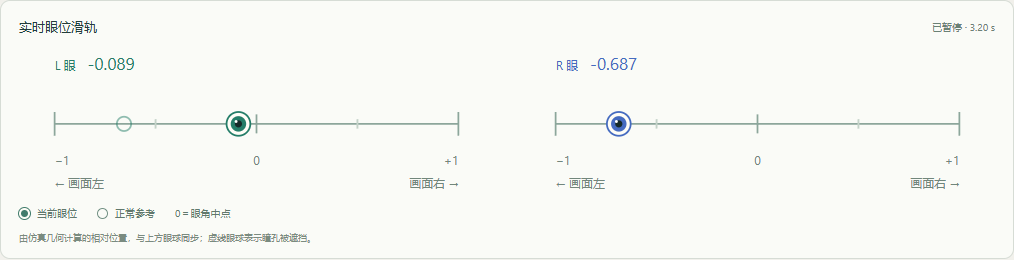
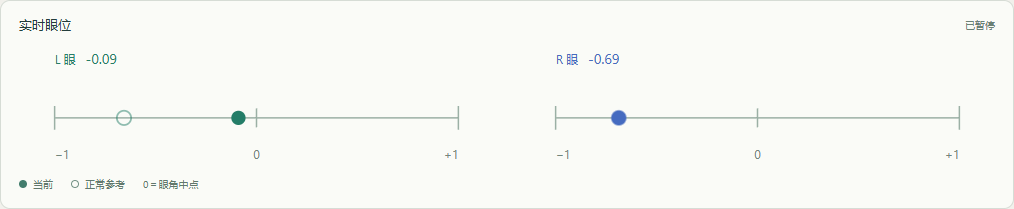
Simplify eye-position rails to plain dots

diff --git a/oculid.css b/oculid.css
@@ -7,8 +7,6 @@
 .sr-only{position:absolute;width:1px;height:1px;padding:0;margin:-1px;overflow:hidden;clip:rect(0,0,0,0);white-space:nowrap;border:0}.patient-active{font-size:12px;color:#285c4b;background:#e5ede4;border-radius:6px;padding:10px 11px;line-height:1.6}.patient-fields{display:grid;grid-template-columns:minmax(0,1.6fr) minmax(0,1fr);gap:9px}.patient-fields>div{min-width:0}.controls .patient-fields label{margin-top:5px}.patient-fields select{font-size:12px;padding:10px 6px}.patient-row{display:flex;gap:7px}.patient-row input{min-width:0;flex:1;width:80px}.patient-row button{white-space:nowrap;flex:none;font-size:12px;padding:9px}.controls input[type=text],.controls input[type=number]{border:1px solid var(--line);border-radius:6px;padding:10px;font-size:12px;max-width:100%;background:#fafbf7;color:#233d3b}.controls input[type=file]{max-width:100%;font-size:11px}.patient-nav{display:flex;gap:5px;margin-top:8px}.patient-nav button{flex:1;padding:8px 4px;font-size:11px}#patientSeed{width:100%}#patientFiles>button{margin-top:12px;width:100%}.error{color:#a04437!important}.trajectory-card{margin-top:22px;padding:17px 18px 13px;border:1px solid var(--line);border-radius:10px;background:#fafbf7}.trace-heading{display:flex;justify-content:space-between;align-items:center;gap:12px}.trace-heading h2{font-size:13px;font-weight:500;margin:0}.trace-heading>div{display:flex;gap:8px;align-items:center}.trace-heading select{width:auto;max-width:230px;font-size:11px;padding:7px}.trace-heading button{font-size:11px;padding:7px 10px}#motionTrace{width:100%;height:230px;display:block;margin-top:10px}.trace-legend{display:flex;flex-wrap:wrap;gap:7px 15px;font-size:10px;color:#6b8075}.trace-left{color:#247d68}.trace-right{color:#456bc0}.trace-legend output{margin-left:auto;font-variant-numeric:tabular-nums}.trajectory-card .hint{font-size:9px;line-height:1.7}
 @media(max-width:760px){.trajectory-card{padding:14px 10px}.trace-heading{align-items:flex-start;flex-direction:column;gap:10px}.trace-heading>div{width:100%}.trace-heading select{flex:1;max-width:none;min-width:0}.trace-heading button{white-space:nowrap}#motionTrace{height:230px}.trace-legend{gap:6px 9px;font-size:9px}.controls .patient-fields select{font-size:12px;padding:10px 6px}}
 
-/* Instantaneous eye positions: fixed horizontal rails, no temporal history. */
-.eye-position-card{margin-top:22px;padding:17px 18px 13px;border:1px solid var(--line);border-radius:10px;background:#fafbf7}.rail-heading{display:flex;align-items:center;justify-content:space-between;gap:10px}.rail-heading h2{font-size:13px;font-weight:500;margin:0}.rail-heading>span{font-size:10px;color:#6b8075;font-variant-numeric:tabular-nums}.eye-rails{display:grid;grid-template-columns:1fr 1fr;gap:26px;margin-top:17px}.eye-rail{min-width:0;--eye-color:#247d68}.eye-rail-1{--eye-color:#456bc0}.rail-eye-heading{display:flex;align-items:baseline;gap:12px;padding:0 7.5%;font-size:12px;color:var(--eye-color)}.rail-eye-heading output{font-size:17px;font-variant-numeric:tabular-nums}.rail-visibility{color:#8a654b;font-size:10px;margin-left:auto}.eye-rail svg{display:block;width:100%;height:auto;overflow:visible}.rail-axis,.rail-minor{fill:none;stroke:#8ca69b;stroke-width:1.5}.rail-minor{stroke:#c5d3c9}.rail-reference{fill:none;stroke:var(--eye-color);stroke-width:1.5;opacity:.5}.rail-eye-white{fill:#fffef7;stroke:var(--eye-color);stroke-width:1.5}.rail-iris{fill:var(--eye-color)}.rail-pupil{fill:#162a28}.rail-glint{fill:white}.rail-marker.is-occluded{opacity:.55}.rail-marker.is-occluded .rail-eye-white{stroke-dasharray:3 2;fill:#edf1e8}.rail-marker.is-occluded .rail-iris,.rail-marker.is-occluded .rail-pupil,.rail-marker.is-occluded .rail-glint{opacity:.45}.eye-rail text{fill:#71867b;font:10px "Segoe UI","Microsoft YaHei",sans-serif}.rail-key{display:flex;flex-wrap:wrap;gap:10px 20px;font-size:10px;color:#61786c;margin:12px 0 0}.rail-key>span{display:inline-flex;align-items:center;gap:7px}.rail-key i{display:inline-block;width:11px;height:11px;border-radius:50%}.rail-key-eye{background:#427c6c;border:2px solid #fcfcf6;outline:1px solid #427c6c}.rail-key-reference{border:1.5px solid #749286}.eye-position-card .hint{font-size:9px;line-height:1.7}
-@media(max-width:760px){.eye-position-card{padding:14px 10px}.eye-rails{grid-template-columns:1fr;gap:17px;margin-top:16px}.rail-heading{align-items:flex-start;flex-wrap:wrap}.rail-heading>span{font-size:9px}.rail-key{font-size:9px;gap:8px 13px}.rail-eye-heading output{font-size:16px}}
-
-@media(max-width:760px){.eye-rail text{font-size:14px}}
+/* Instantaneous eye positions: a line and simple position dots. */
+.eye-position-card{margin-top:22px;padding:15px 18px;border:1px solid var(--line);border-radius:10px;background:#fafbf7}.rail-heading{display:flex;align-items:center;justify-content:space-between;gap:10px}.rail-heading h2{font-size:13px;font-weight:500;margin:0}.rail-heading>span{font-size:10px;color:#6b8075}.eye-rails{display:grid;grid-template-columns:1fr 1fr;gap:26px;margin-top:16px}.eye-rail{min-width:0;--eye-color:#247d68}.eye-rail-1{--eye-color:#456bc0}.rail-eye-heading{display:flex;align-items:baseline;gap:10px;padding:0 7.5%;font-size:12px;color:var(--eye-color)}.rail-eye-heading output{font-size:14px;font-variant-numeric:tabular-nums}.rail-visibility{color:#8a654b;font-size:10px;margin-left:auto}.eye-rail svg{display:block;width:100%;height:auto}.rail-axis{fill:none;stroke:#9bb0a5;stroke-width:1.3}.rail-reference{fill:none;stroke:var(--eye-color);stroke-width:1.5;opacity:.5}.rail-dot{fill:var(--eye-color)}.rail-marker.is-occluded .rail-dot{fill:none;stroke:var(--eye-color);stroke-width:1.5;stroke-dasharray:2 2;opacity:.65}.eye-rail text{fill:#71867b;font:10px "Segoe UI","Microsoft YaHei",sans-serif}.rail-key{display:flex;flex-wrap:wrap;gap:10px 18px;font-size:10px;color:#61786c;margin:10px 0 0}.rail-key>span{display:inline-flex;align-items:center;gap:6px}.rail-key i{display:inline-block;width:8px;height:8px;border-radius:50%}.rail-key-dot{background:#427c6c}.rail-key-reference{border:1.5px solid #749286}
+@media(max-width:760px){.eye-position-card{padding:14px 10px}.eye-rails{grid-template-columns:1fr;gap:14px;margin-top:14px}.rail-heading>span{font-size:9px}.rail-key{font-size:9px;gap:8px 13px}.eye-rail text{font-size:14px}}

diff --git a/index.html b/index.html
@@ -1,9 +1,9 @@
 <!doctype html>
-<html lang="zh-CN"><head><meta charset="utf-8"><meta name="viewport" content="width=device-width, initial-scale=1"><title>Oculid Motion Lab · 眼睑与双眼运动</title><meta name="description" content="带眼睑的双眼运动模拟：自然眨眼、注视随动、原模型同步对照与本地食指追踪。"><link rel="icon" href="data:,"><link rel="stylesheet" href="./oculid.css?v=rails5"></head>
+<html lang="zh-CN"><head><meta charset="utf-8"><meta name="viewport" content="width=device-width, initial-scale=1"><title>Oculid Motion Lab · 眼睑与双眼运动</title><meta name="description" content="带眼睑的双眼运动模拟：自然眨眼、注视随动、原模型同步对照与本地食指追踪。"><link rel="icon" href="data:,"><link rel="stylesheet" href="./oculid.css?v=rails-simple1"></head>
 <body>
 <header class="masthead"><a class="brand" href="./"><span class="brand-mark">◉</span><span>OCULID <b>MOTION LAB</b></span></a><nav><a href="./workspace.html">完整工作台 ↗</a><a href="./research.html">设计与依据</a><a href="https://github.com/zhh0907/oculid-motion-lab">GitHub ↗</a></nav></header>
 <main class="layout"><section class="workbench">
-<div class="intro"><div><p class="eyebrow">BINOCULAR MOTION · WITH EYELIDS</p><h1>让注视，有真实的眼睑。</h1><p class="subtitle">沿用原有双眼运动模型，观察眼睑随动、眨眼与遮挡。</p></div><span class="version">RESEARCH / 0.5</span></div>
+<div class="intro"><div><p class="eyebrow">BINOCULAR MOTION · WITH EYELIDS</p><h1>让注视，有真实的眼睑。</h1><p class="subtitle">沿用原有双眼运动模型，观察眼睑随动、眨眼与遮挡。</p></div><span class="version">RESEARCH / 0.5.1</span></div>
 <div class="stage-card"><div class="stage-top"><span><i class="live-dot"></i> <span id="stateLabel">正在加载模型</span> · <span id="activePatientBadge">正常参考</span></span><span id="renderFps">— fps</span></div>
 <div id="eyeFocus" class="eye-stage"><span class="eye-label left-label">L 通道</span><span class="eye-label right-label">R 通道</span><div class="stage-bottom"><span>眼球 + 眼睑</span><span id="lidStatus">自然眨眼 · 注视随动</span></div></div>
 <div class="target-track"><span>目标</span><div><i id="targetDot"></i></div><span id="targetDepth">0.70 m</span></div>
@@ -31,4 +31,4 @@
 </aside></main>
 <footer>OCULID MOTION LAB <span>Built on Binocular Motion Lab · Honghao Zhao</span><a href="./research.html">方法与验证边界 ↗</a></footer>
 <div hidden><input id="cameraDepth" value=".7"><input id="cameraFov" value="60"><input id="camY" value=".30"><input id="cameraSmooth" value="60"></div>
-<script type="module" src="./src/main.mjs?v=rails5"></script></body></html>
+<script type="module" src="./src/main.mjs?v=rails-simple1"></script></body></html>

diff --git a/docs/PATIENTS-AND-TRACES.zh-CN.md b/docs/PATIENTS-AND-TRACES.zh-CN.md
@@ -1,6 +1,6 @@
 # 固定患者与实时眼位轨迹
 
-版本 0.5，2026-10-28。
+版本 0.5.1，2026-10-28。
 
 ## 使用
 
@@ -19,11 +19,11 @@
 
 ## 即时眼位滑轨
 
-眼部画面下面首先显示两条独立水平轴，L / R 与上方 3D 视图的通道顺序一致。眼球标记只显示此刻位置，在轴上左右滑动；空心圆为同一正常控制器的参考位置。原有时间/二维轨迹图位于下方。
+眼部画面下面首先显示两条独立水平轴，L / R 与上方 3D 视图的通道顺序一致。圆点只显示此刻位置，在轴上左右滑动；空心圆为同一正常控制器的参考位置。原有时间/二维轨迹图位于下方。
 
 横轴使用眼角半宽归一化的位置，0 为眼角中点。正值朝画面右侧，与本模拟器的 3D 视图一致。这里从眼球角度和当前几何计算：`u = 0.01255 × sin(yaw) × cos(pitch) / 0.0132`，角度代入三角函数前转换为弧度。这对应当前正交视图中的瞳孔中心横坐标除以眼裂半宽，**不是从摄像头或渲染图像重新识别的眼位**。也没有沿用 GazeLab 的受试者左侧为正的符号约定。
 
-暂停或食指丢失时，标记与 3D 眼球共同保持。眨眼或其他眼睑遮挡时仍显示模拟真值，但以虚线、淡色眼球和遮挡文字提示。绘图直接读取当前帧，不引入新的病症噪声、角度增益、评分或独立动画时钟。
+暂停或食指丢失时，标记与 3D 眼球共同保持。眨眼或其他眼睑遮挡时仍显示模拟真值，但以虚线圆点和遮挡文字提示。绘图直接读取当前帧，不引入新的病症噪声、角度增益、评分或独立动画时钟。
 
 ## 轨迹图
 

diff --git a/docs/VALIDATION.md b/docs/VALIDATION.md
@@ -4,6 +4,8 @@ Environment: Version 0.5.0. Windows, Node 24.15.0, installed Google Chrome throu
 
 ## Results
 
+- Version 0.5.1 simplifies the rails to plain dots and fewer labels. The existing homepage/patient browser integration suite passed, including rail positions, pause/occlusion, and 320/390/844 px layouts. Motion mathematics is unchanged.
+
 - Live eye-position rails: the projected positions match the simulated eye geometry; the limited-eye marker remains near centre while the other eye and normal reference move; pause/tracking-loss holds and eyelid-occlusion styling pass. Both rails remain readable in desktop and stacked mobile layouts.
 
 - Homepage patient/trajectory integration: 30 balanced profiles; ID recall, refresh persistence, unchanged profile after controller change, portable library import and conflict rejection, shared workspace storage, arbitrary 3D targets, three chart views, independent clearing, pause/tracking loss/reacquisition, and JSON/CSV provenance pass. [Report](patients-browser-report.json).

diff --git a/README.md b/README.md
@@ -6,10 +6,10 @@
 
 ![Oculid eye region and synchronized bare-eye comparison](docs/preview.png)
 
-## 0.5 更新：实时双眼滑轨
+## 0.5.1 更新：简洁的实时双眼滑轨
 
-- 在眼部画面下增加两条水平眼位轴，L / R 眼各有一个随当前眼位左右滑动的眼球标记，参考 GazeLab 的即时眼位显示方式。
-- 实心眼球显示当前患者，空心圆显示正常参考；0 为眼角中点。瞳孔被眼睑遮挡时以虚线眼球提示，暂停和食指丢失时保持位置。
+- 在眼部画面下增加两条水平眼位轴，L / R 眼各有一个随当前眼位左右滑动的圆点，参考 GazeLab 的即时眼位显示方式。
+- 实心圆点显示当前患者，空心圆显示正常参考；0 为眼角中点。瞳孔被眼睑遮挡时以虚线圆点提示，暂停和食指丢失时保持位置。
 - 滑轨显示仿真几何投影的相对眼位；原来的时间曲线和二维轨迹仍在其下方。
 
 ## 0.4 更新：患者库与实时轨迹
